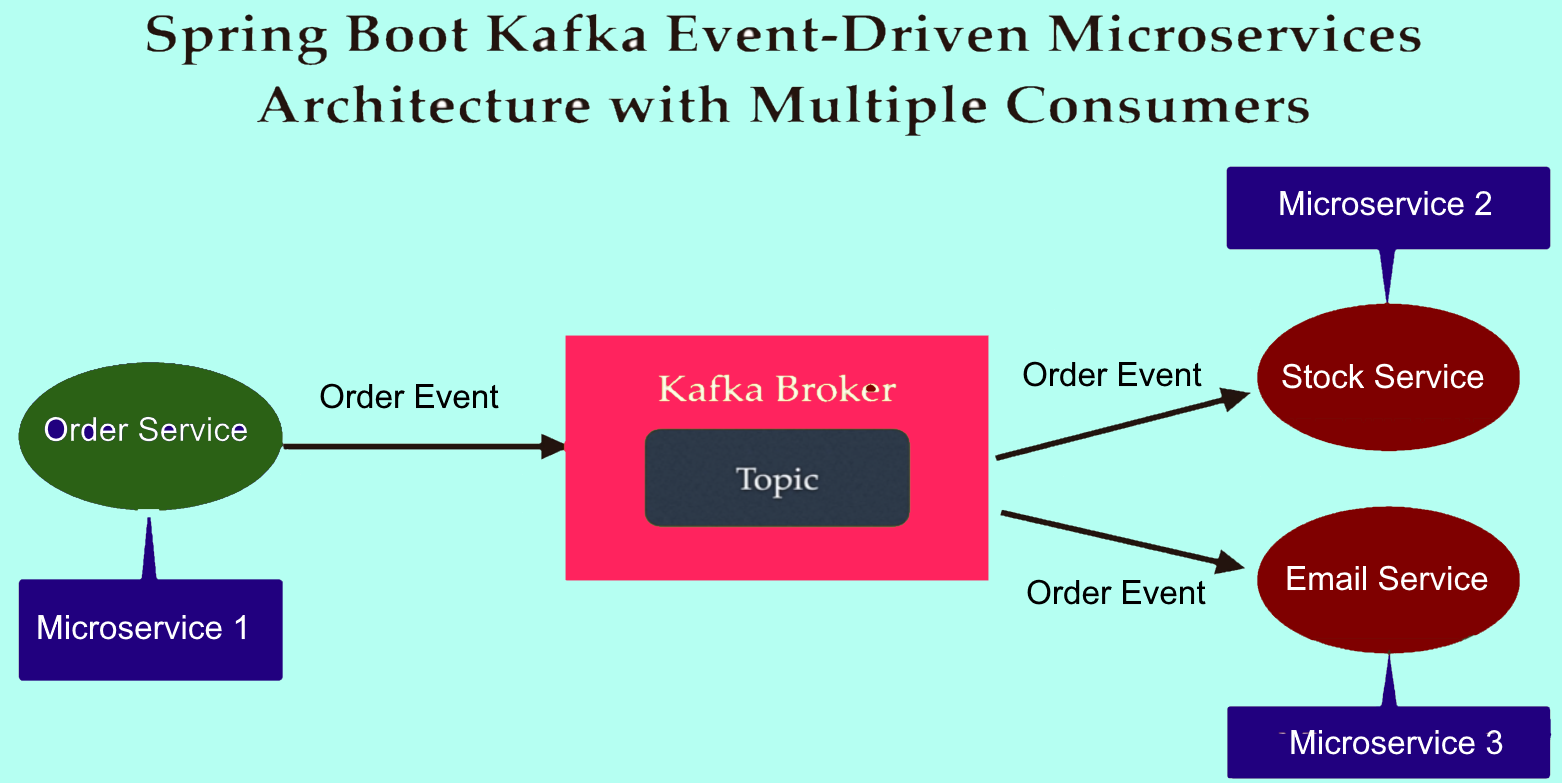
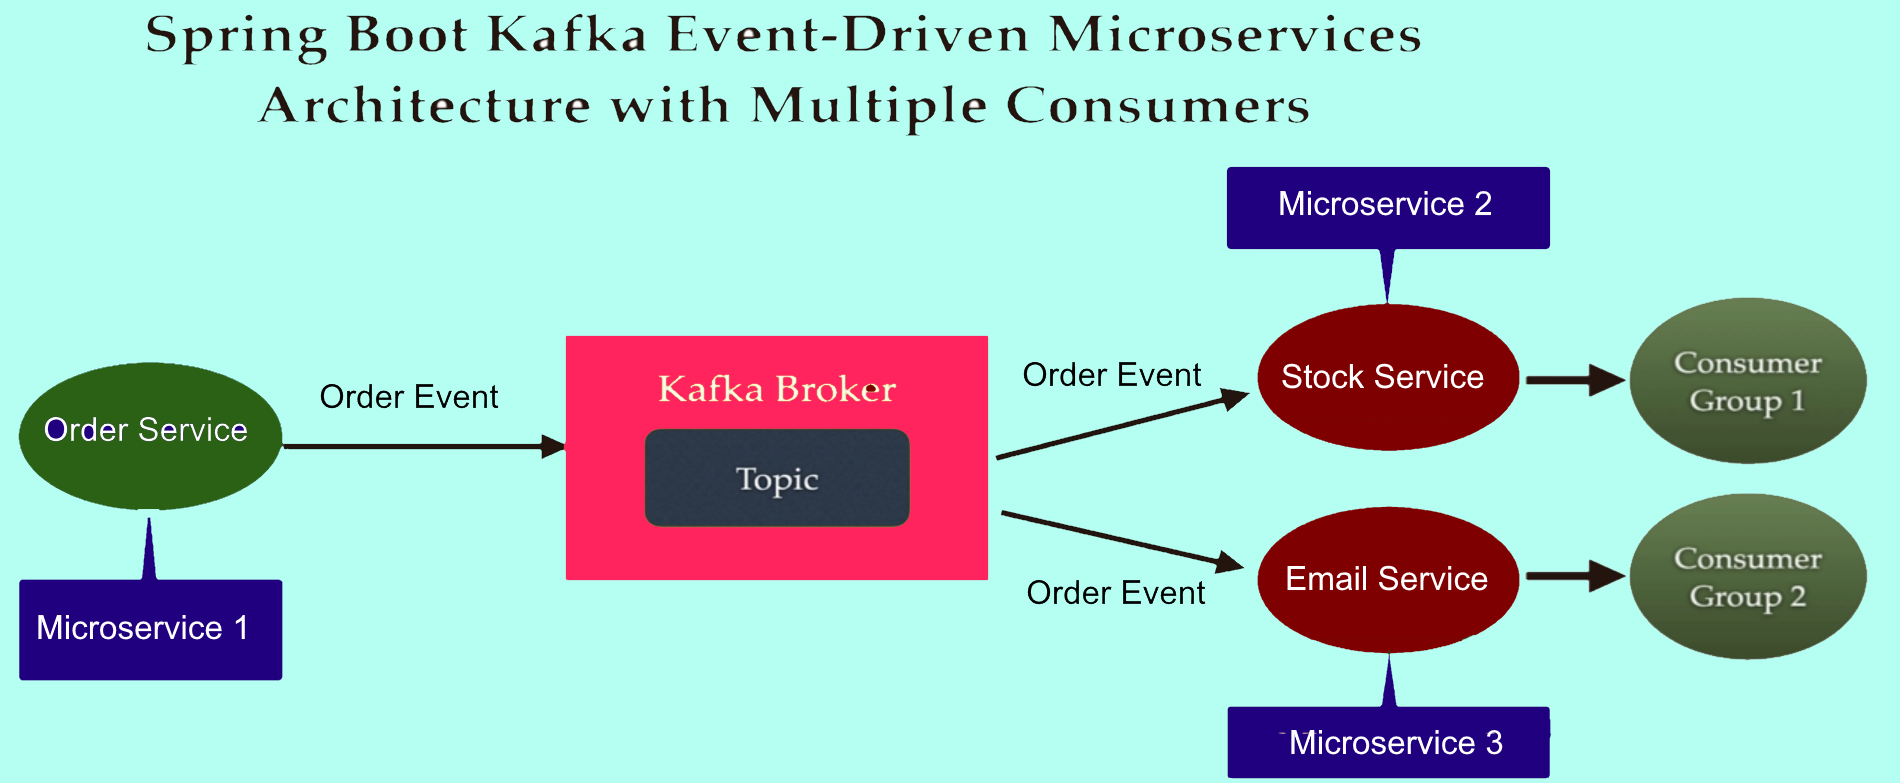
Implemented Email and Stock services

diff --git a/Email-Service/src/main/java/com/amitesh/emailservice/config/KafkaConsumerConfig.java b/Email-Service/src/main/java/com/amitesh/emailservice/config/KafkaConsumerConfig.java
@@ -1,0 +1,50 @@
+package com.amitesh.emailservice.config;
+
+import com.amitesh.dto.OrderEvent;
+import java.util.LinkedHashMap;
+import java.util.Map;
+import org.apache.kafka.clients.consumer.ConsumerConfig;
+import org.apache.kafka.common.serialization.StringDeserializer;
+import org.springframework.beans.factory.annotation.Value;
+import org.springframework.context.annotation.Bean;
+import org.springframework.context.annotation.Configuration;
+import org.springframework.kafka.config.ConcurrentKafkaListenerContainerFactory;
+import org.springframework.kafka.core.ConsumerFactory;
+import org.springframework.kafka.core.DefaultKafkaConsumerFactory;
+import org.springframework.kafka.support.serializer.JsonDeserializer;
+
+@Configuration
+public class KafkaConsumerConfig {
+
+  @Value(value = "${spring.kafka.bootstrap-servers}")
+  private String bootstrapAddress;
+
+  @Value(value = "${kafka.consumer.email.group-id")
+  private String groupId;
+
+  @Value(value = "${spring.kafka.consumer.auto-offset-reset}")
+  private String autoOffsetReset;
+
+  @Bean
+  public ConsumerFactory<String, OrderEvent> consumerFactory() {
+    Map<String, Object> props = new LinkedHashMap<>();
+    props.put(ConsumerConfig.AUTO_OFFSET_RESET_CONFIG, autoOffsetReset);
+    props.put(ConsumerConfig.BOOTSTRAP_SERVERS_CONFIG, bootstrapAddress);
+    props.put(ConsumerConfig.GROUP_ID_CONFIG, groupId);
+    props.put(ConsumerConfig.KEY_DESERIALIZER_CLASS_CONFIG, StringDeserializer.class);
+    props.put(ConsumerConfig.VALUE_DESERIALIZER_CLASS_CONFIG, JsonDeserializer.class);
+    return new DefaultKafkaConsumerFactory<>(props,
+        new StringDeserializer(),
+        new JsonDeserializer<>(OrderEvent.class));
+  }
+
+  @Bean
+  public ConcurrentKafkaListenerContainerFactory<String, OrderEvent>
+  kafkaListenerContainerFactory() {
+    ConcurrentKafkaListenerContainerFactory<String, OrderEvent> factory =
+        new ConcurrentKafkaListenerContainerFactory<>();
+    factory.setConsumerFactory(consumerFactory());
+    return factory;
+  }
+
+}

diff --git a/Stock-Service/src/main/java/com/amitesh/stockservice/config/KafkaConsumerConfig.java b/Stock-Service/src/main/java/com/amitesh/stockservice/config/KafkaConsumerConfig.java
@@ -1,0 +1,50 @@
+package com.amitesh.stockservice.config;
+
+import com.amitesh.dto.OrderEvent;
+import java.util.LinkedHashMap;
+import java.util.Map;
+import org.apache.kafka.clients.consumer.ConsumerConfig;
+import org.apache.kafka.common.serialization.StringDeserializer;
+import org.springframework.beans.factory.annotation.Value;
+import org.springframework.context.annotation.Bean;
+import org.springframework.context.annotation.Configuration;
+import org.springframework.kafka.config.ConcurrentKafkaListenerContainerFactory;
+import org.springframework.kafka.core.ConsumerFactory;
+import org.springframework.kafka.core.DefaultKafkaConsumerFactory;
+import org.springframework.kafka.support.serializer.JsonDeserializer;
+
+@Configuration
+public class KafkaConsumerConfig {
+
+  @Value(value = "${spring.kafka.bootstrap-servers}")
+  private String bootstrapAddress;
+
+  @Value(value = "${kafka.consumer.stock.group-id")
+  private String groupId;
+
+  @Value(value = "${spring.kafka.consumer.auto-offset-reset}")
+  private String autoOffsetReset;
+
+  @Bean
+  public ConsumerFactory<String, OrderEvent> consumerFactory() {
+    Map<String, Object> props = new LinkedHashMap<>();
+    props.put(ConsumerConfig.AUTO_OFFSET_RESET_CONFIG, autoOffsetReset);
+    props.put(ConsumerConfig.BOOTSTRAP_SERVERS_CONFIG, bootstrapAddress);
+    props.put(ConsumerConfig.GROUP_ID_CONFIG, groupId);
+    props.put(ConsumerConfig.KEY_DESERIALIZER_CLASS_CONFIG, StringDeserializer.class);
+    props.put(ConsumerConfig.VALUE_DESERIALIZER_CLASS_CONFIG, JsonDeserializer.class);
+    return new DefaultKafkaConsumerFactory<>(props,
+        new StringDeserializer(),
+        new JsonDeserializer<>(OrderEvent.class));
+  }
+
+  @Bean
+  public ConcurrentKafkaListenerContainerFactory<String, OrderEvent>
+  kafkaListenerContainerFactory() {
+    ConcurrentKafkaListenerContainerFactory<String, OrderEvent> factory =
+        new ConcurrentKafkaListenerContainerFactory<>();
+    factory.setConsumerFactory(consumerFactory());
+    return factory;
+  }
+
+}

diff --git a/Stock-Service/src/main/java/com/amitesh/stockservice/kafka/OrderConsumer.java b/Stock-Service/src/main/java/com/amitesh/stockservice/kafka/OrderConsumer.java
@@ -1,0 +1,24 @@
+package com.amitesh.stockservice.kafka;
+
+import com.amitesh.dto.OrderEvent;
+import org.apache.kafka.clients.consumer.ConsumerRecord;
+import org.slf4j.Logger;
+import org.slf4j.LoggerFactory;
+import org.springframework.kafka.annotation.KafkaListener;
+import org.springframework.stereotype.Service;
+
+@Service
+public class OrderConsumer {
+
+  private static final Logger LOGGER = LoggerFactory.getLogger(OrderConsumer.class);
+
+  @KafkaListener(id = "${kafka.consumer.stock.group-id}", topics = "${order.event.topic}")
+  public void consumeOrderWithConsumerRecord(final ConsumerRecord<String, OrderEvent> record, final OrderEvent orderEvent) {
+    /* Here orderEvent is same as record.value(). Fetching orderEvent separately for clarity */
+    LOGGER.info("Consumer Record Message {} received from Topic {} | Partition {} | Offset {} at {}",
+        orderEvent, record.topic(), record.partition(), record.offset(), record.timestamp());
+
+    /* Add logic to update Order Stock */
+  }
+
+}

diff --git a/Email-Service/src/main/java/com/amitesh/emailservice/kafka/OrderConsumer.java b/Email-Service/src/main/java/com/amitesh/emailservice/kafka/OrderConsumer.java
@@ -1,0 +1,24 @@
+package com.amitesh.emailservice.kafka;
+
+import com.amitesh.dto.OrderEvent;
+import org.apache.kafka.clients.consumer.ConsumerRecord;
+import org.slf4j.Logger;
+import org.slf4j.LoggerFactory;
+import org.springframework.kafka.annotation.KafkaListener;
+import org.springframework.stereotype.Service;
+
+@Service
+public class OrderConsumer {
+
+  private static final Logger LOGGER = LoggerFactory.getLogger(OrderConsumer.class);
+
+  @KafkaListener(id = "${kafka.consumer.email.group-id}", topics = "${order.event.topic}")
+  public void consumeOrderWithConsumerRecord(final ConsumerRecord<String, OrderEvent> record, final OrderEvent orderEvent) {
+    /* Here orderEvent is same as record.value(). Fetching orderEvent separately for clarity */
+    LOGGER.info("Consumer Record Message {} received from Topic {} | Partition {} | Offset {} at {}",
+        orderEvent, record.topic(), record.partition(), record.offset(), record.timestamp());
+
+    /* Add logic to send Order Email */
+  }
+
+}

diff --git a/README.md b/README.md
@@ -7,6 +7,7 @@ The sample code implements an Event Driven architecture using Spring Boot and Ka
 
 
 ### Note:
+* Start Order, Email and Stock Services separately
 * Use _sample-requests.http_ for direct testing
 
 ## Intellij Plugin
